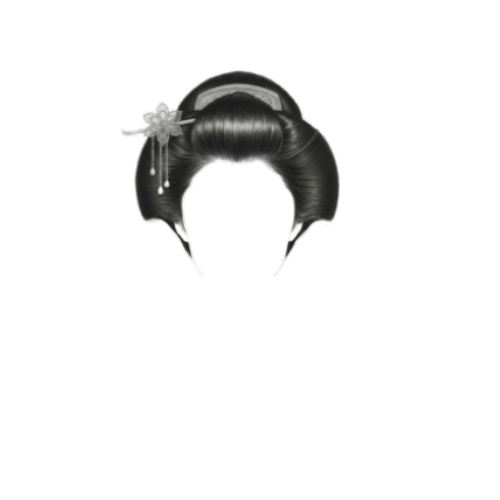
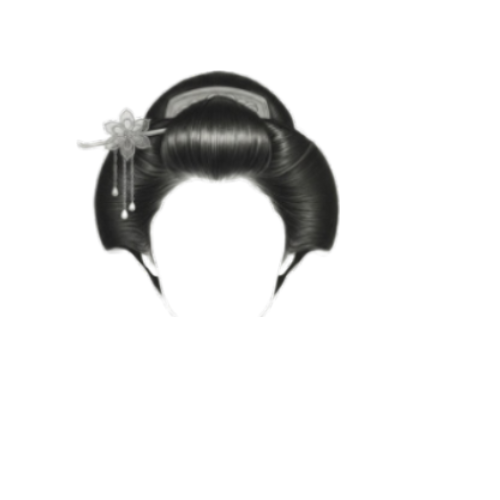
Scale femhair12 close-up proportionally, anchored top-right, for mouth clearance

Changed region(s): [[0.15, 0.12, 0.69, 0.6]]

diff --git a/character-customizer/character-race/female-races/femhuman/cc-fem-hum.js b/character-customizer/character-race/female-races/femhuman/cc-fem-hum.js
@@ -67,7 +67,7 @@ const hairOptions = [
   { src: `${BASE}femhair9.png`, thumb: `${BASE}femhair9-tmb.png`, clup: `${BASE}femhair9-clup.png`, enabled: true },
   { src: `${BASE}femhair10.png`, thumb: `${BASE}femhair10-tmb.png`, clup: `${BASE}femhair10-clup.png`, enabled: true },
   { src: `${BASE}femhair11.png`, thumb: `${BASE}femhair11-tmb.png`, clup: `${BASE}femhair11-clup.png`, enabled: true },
-  { src: `${BASE}femhair12.png`, thumb: `${BASE}femhair12-tmb.png`, clup: `${BASE}femhair12-clup.png?v=5`, enabled: true }
+  { src: `${BASE}femhair12.png`, thumb: `${BASE}femhair12-tmb.png`, clup: `${BASE}femhair12-clup.png?v=6`, enabled: true }
 ];
 
 let selected = {

diff --git a/character-customizer/character-race/female-races/femhuman/fem-human.html b/character-customizer/character-race/female-races/femhuman/fem-human.html
@@ -664,7 +664,7 @@ h1 {
 
   <div id="footer"></div>
   
-  <script src="cc-fem-hum.js?v=20260619m"></script>
+  <script src="cc-fem-hum.js?v=20260619n"></script>
   <script src="../../../../main.js"></script>
 </body>
 </html>
